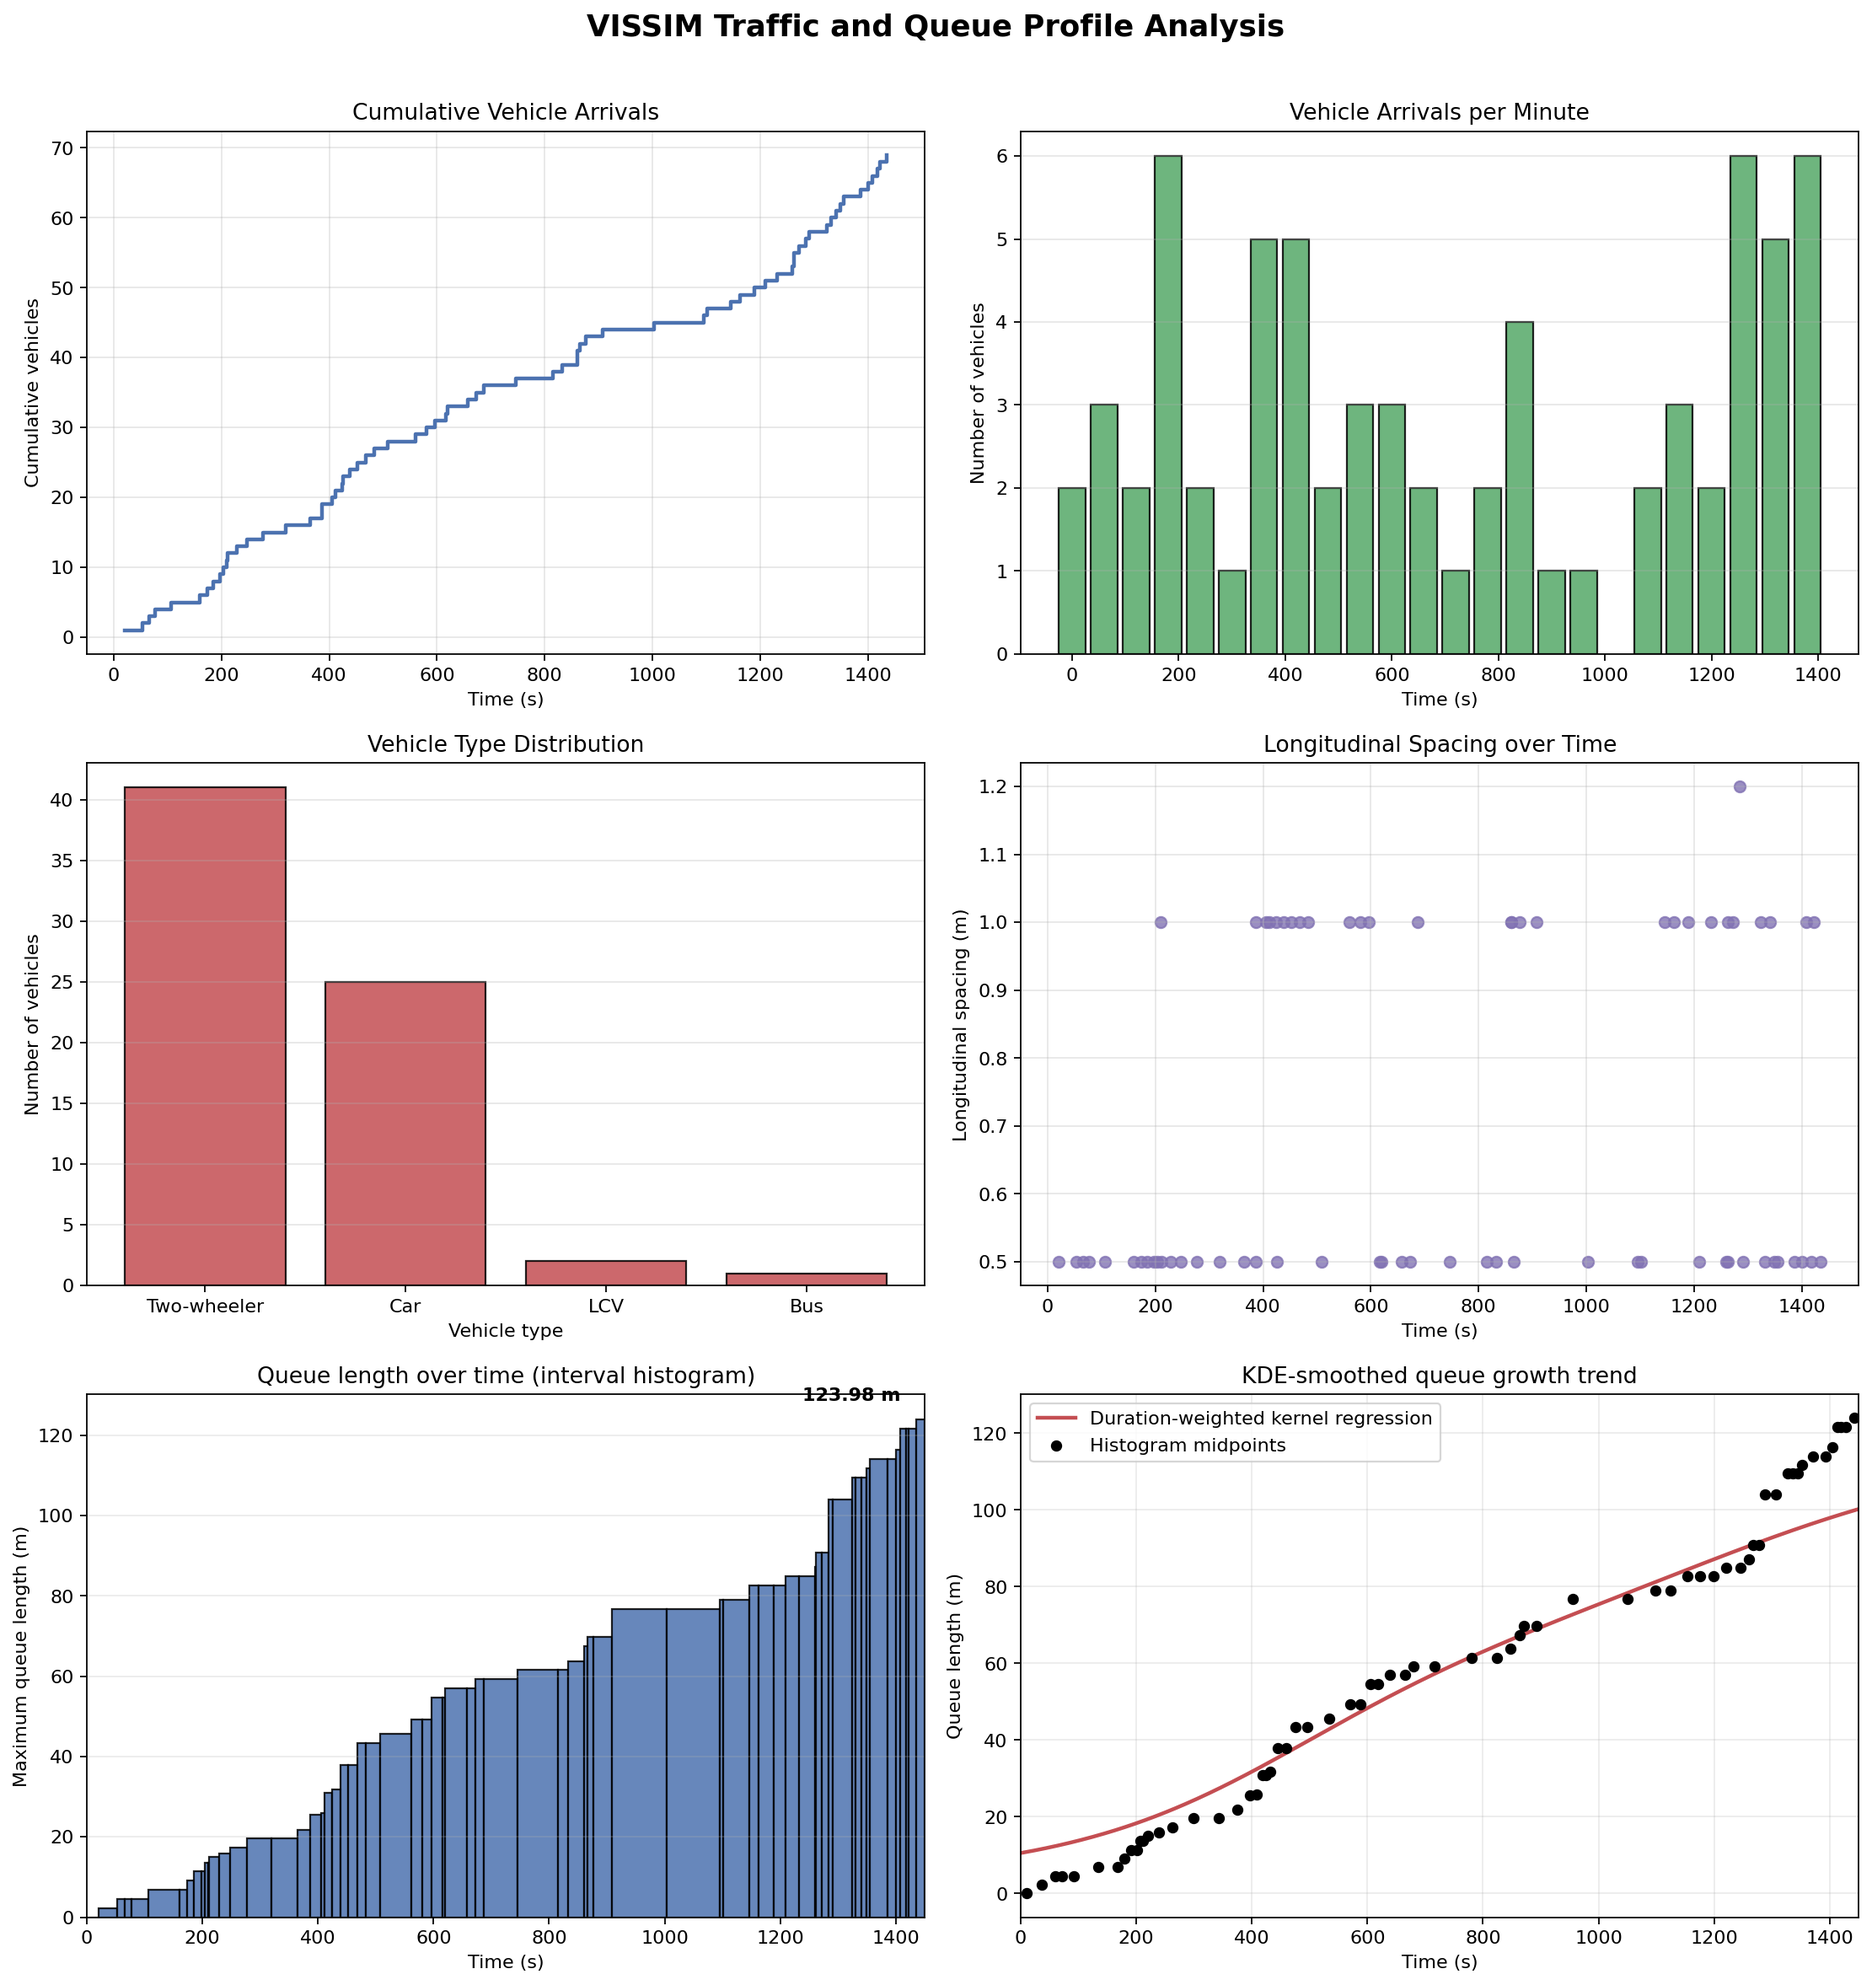
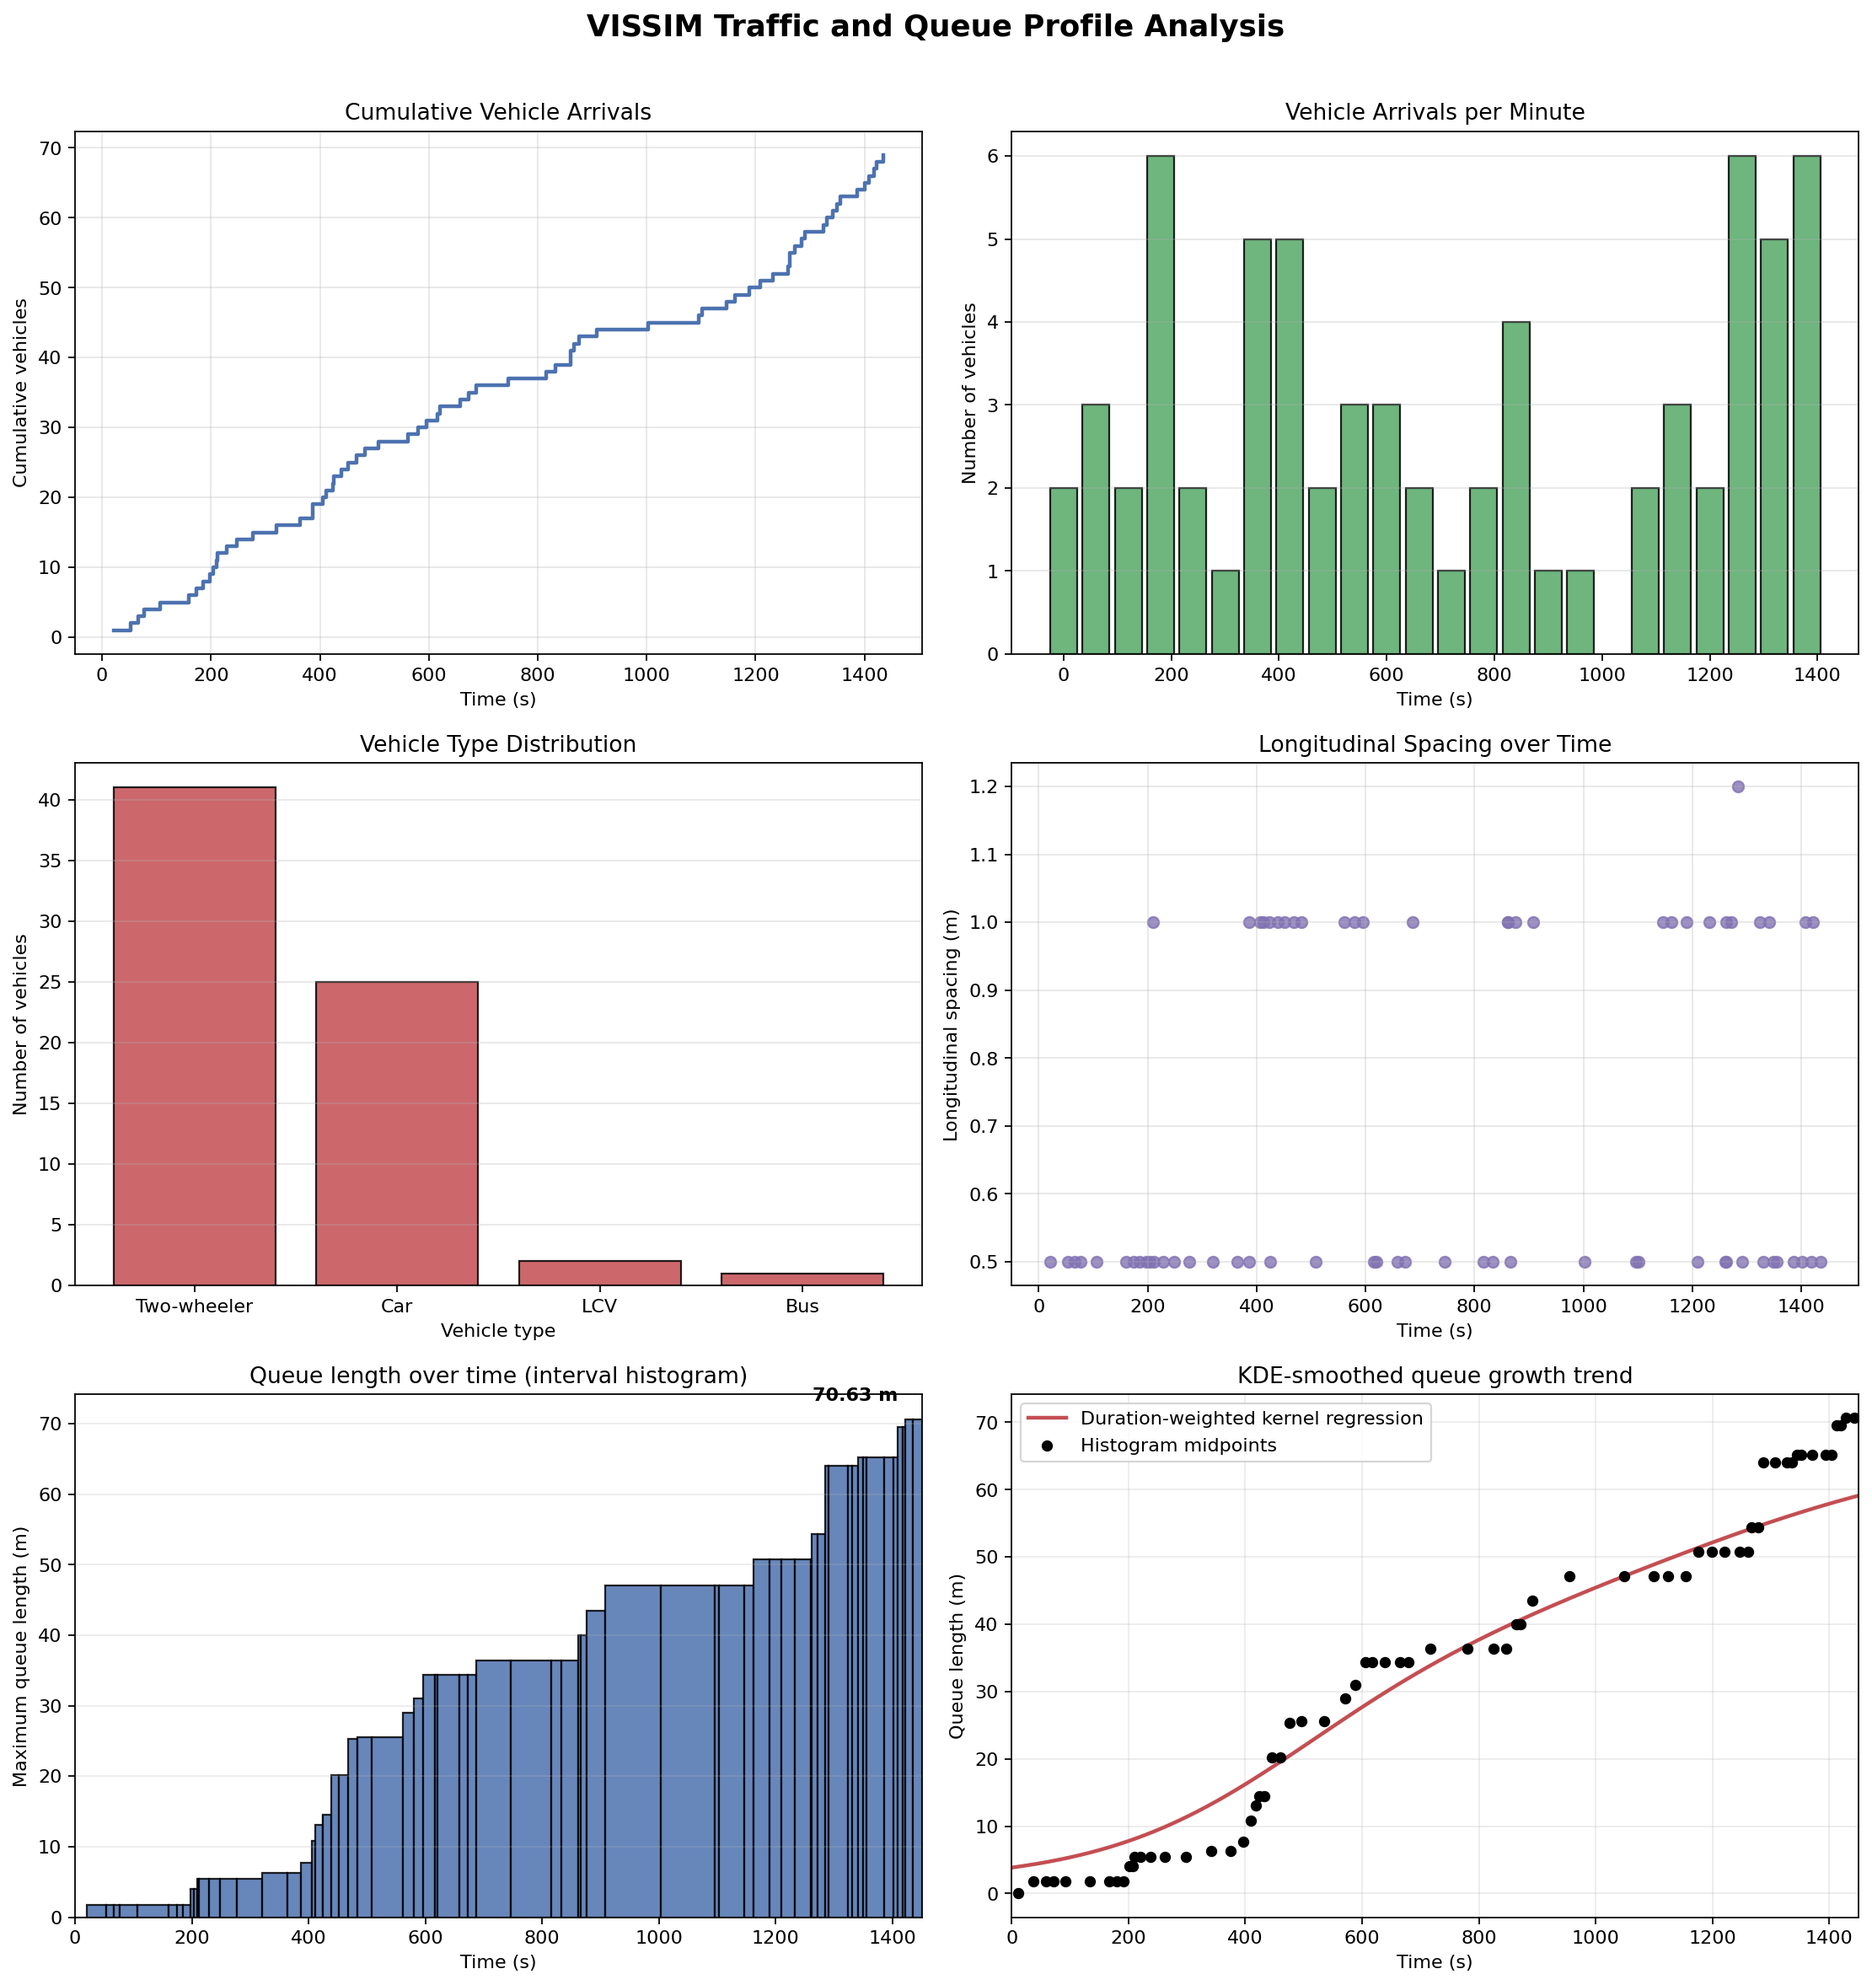
correct plotting to use the fixed queue algo

diff --git a/plot.py b/plot.py
@@ -8,8 +8,7 @@ import matplotlib
 matplotlib.use("Agg")
 import matplotlib.pyplot as plt
 import pandas as pd
-from vehicle_queue_simulation import run_default_scenario
-
+from vehicle_queue_simulation import run_csv_scenario,run_default_scenario
 
 @dataclass
 class QueueSample:
@@ -41,64 +40,42 @@ def collect_queue_profile() -> list[QueueSample]:
     return samples
 
 
+
 def collect_queue_profile_from_csv(csv_path):
-    """Calculate event-based queue-length proxy from CSV."""
+    """Collect maximum queue length using the original
+    queue-placement algorithm and CSV vehicle data."""
 
-    import pandas as pd
-
-    df = pd.read_csv(csv_path)
-
-    required = [
-        "time",
-        "lane",
-        "length_m",
-        "longitudinal_spacing_m"
-    ]
-
-    if not all(col in df.columns for col in required):
-        raise ValueError("Required queue calculation columns missing.")
-
-    df = df.sort_values("time").copy()
-
-    df["time"] = pd.to_numeric(df["time"], errors="coerce")
-    df["length_m"] = pd.to_numeric(df["length_m"], errors="coerce")
-    df["longitudinal_spacing_m"] = pd.to_numeric(
-        df["longitudinal_spacing_m"], errors="coerce"
-    )
-
-    df = df.dropna(subset=required)
-
-    # Initial queue state
     samples = [QueueSample(0.0, 0.0)]
 
-    # Maintain accumulated occupied length separately for each lane
-    lane_lengths = {}
+    # Run the original queue algorithm using CSV records
+    simulation, results = run_csv_scenario(
+        csv_path=csv_path,
+        road_width=7.0,
+        wall_clearance=0.2,
+        seepage_ratio_T=1.0,
+        track_positions=False
+    )
 
-    # Process every vehicle arrival event
-    for _, vehicle in df.iterrows():
-
-        lane = vehicle["lane"]
-
-        vehicle_length = float(vehicle["length_m"])
-        spacing = float(vehicle["longitudinal_spacing_m"])
-
-        if lane not in lane_lengths:
-            lane_lengths[lane] = 0.0
-
-        # Update occupied length of the respective lane
-        lane_lengths[lane] += vehicle_length + spacing
-
-        # Maximum occupied length among all lanes
-        max_queue_length = max(lane_lengths.values())
-
+    # Record maximum queue length after every arrival
+    for event in results:
         samples.append(
             QueueSample(
-                time=float(vehicle["time"]),
-                queue_length=max_queue_length
+                time=float(event["time"]),
+                queue_length=float(event["max_queue_length"])
             )
         )
 
+    print("\nCSV Queue Simulation Summary:")
+    print(f"Total vehicles: {len(results)}")
+    print(f"Placed vehicles: {simulation.placed_count}")
+    print(f"Unplaced vehicles: {simulation.unplaced_count}")
+    print(
+        f"Maximum queue length: "
+        f"{simulation.max_queue_length:.2f} m"
+    )
+
     return samples
+
 
 def prepare_samples(
     samples: list[QueueSample],
